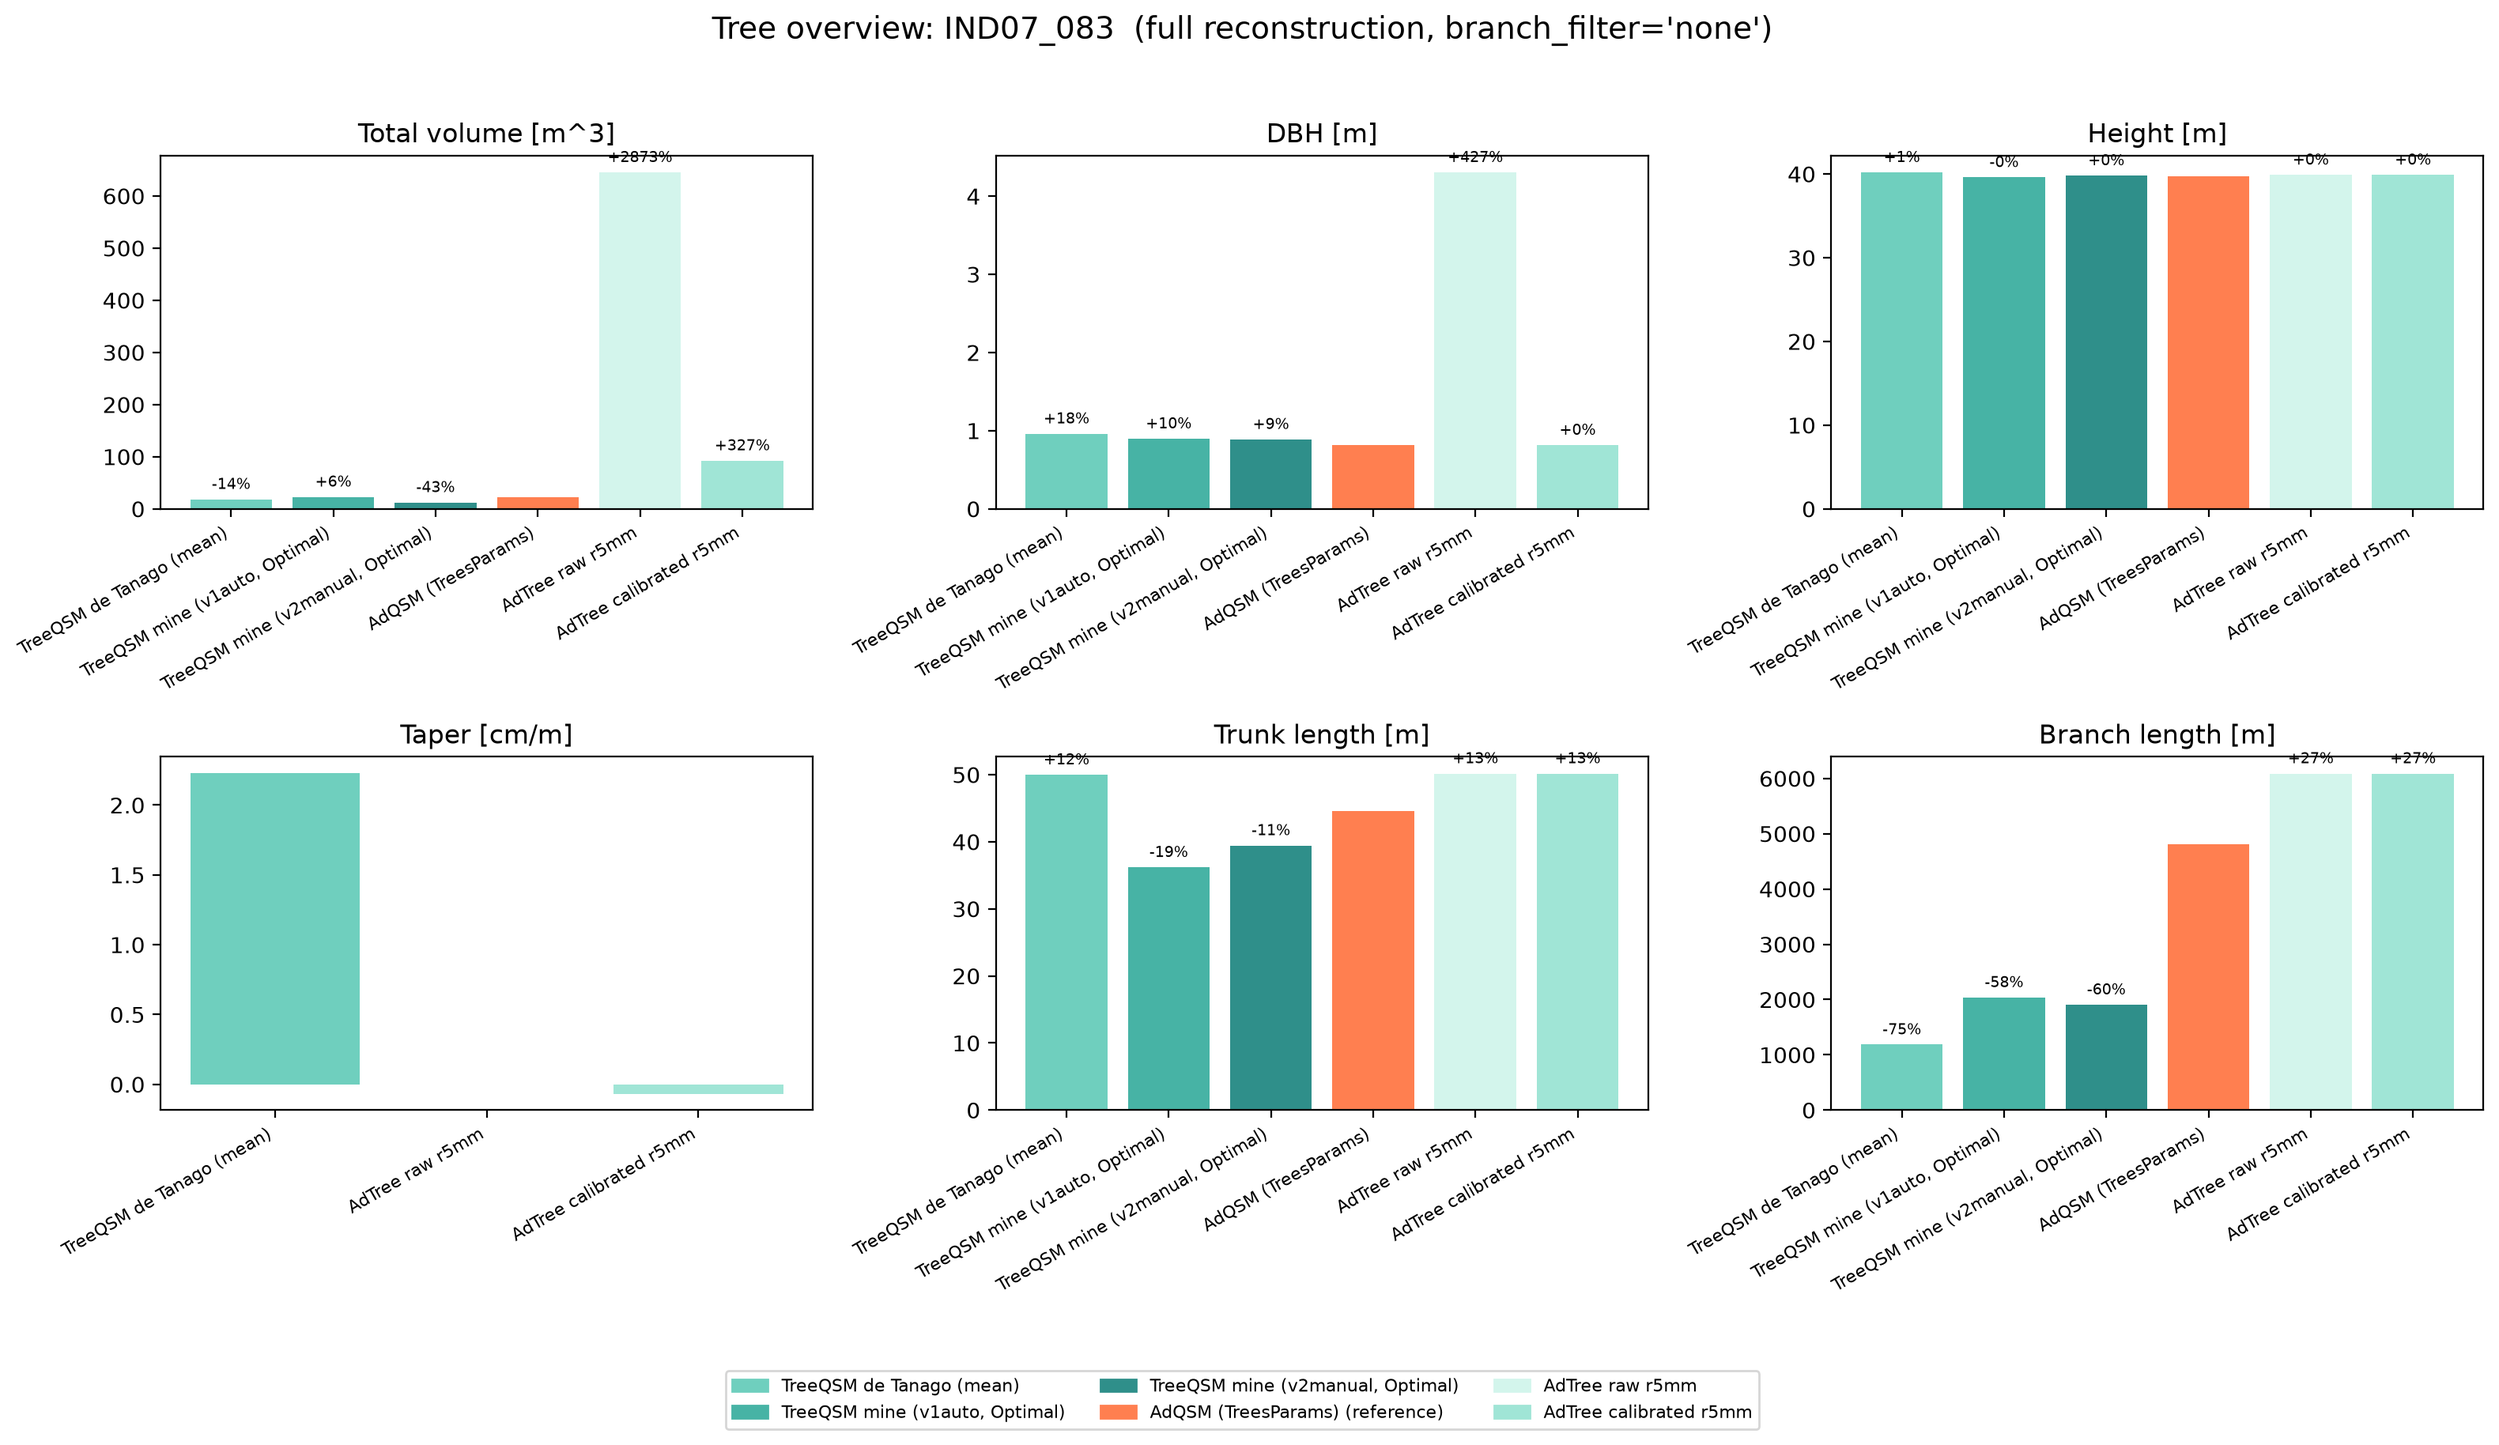
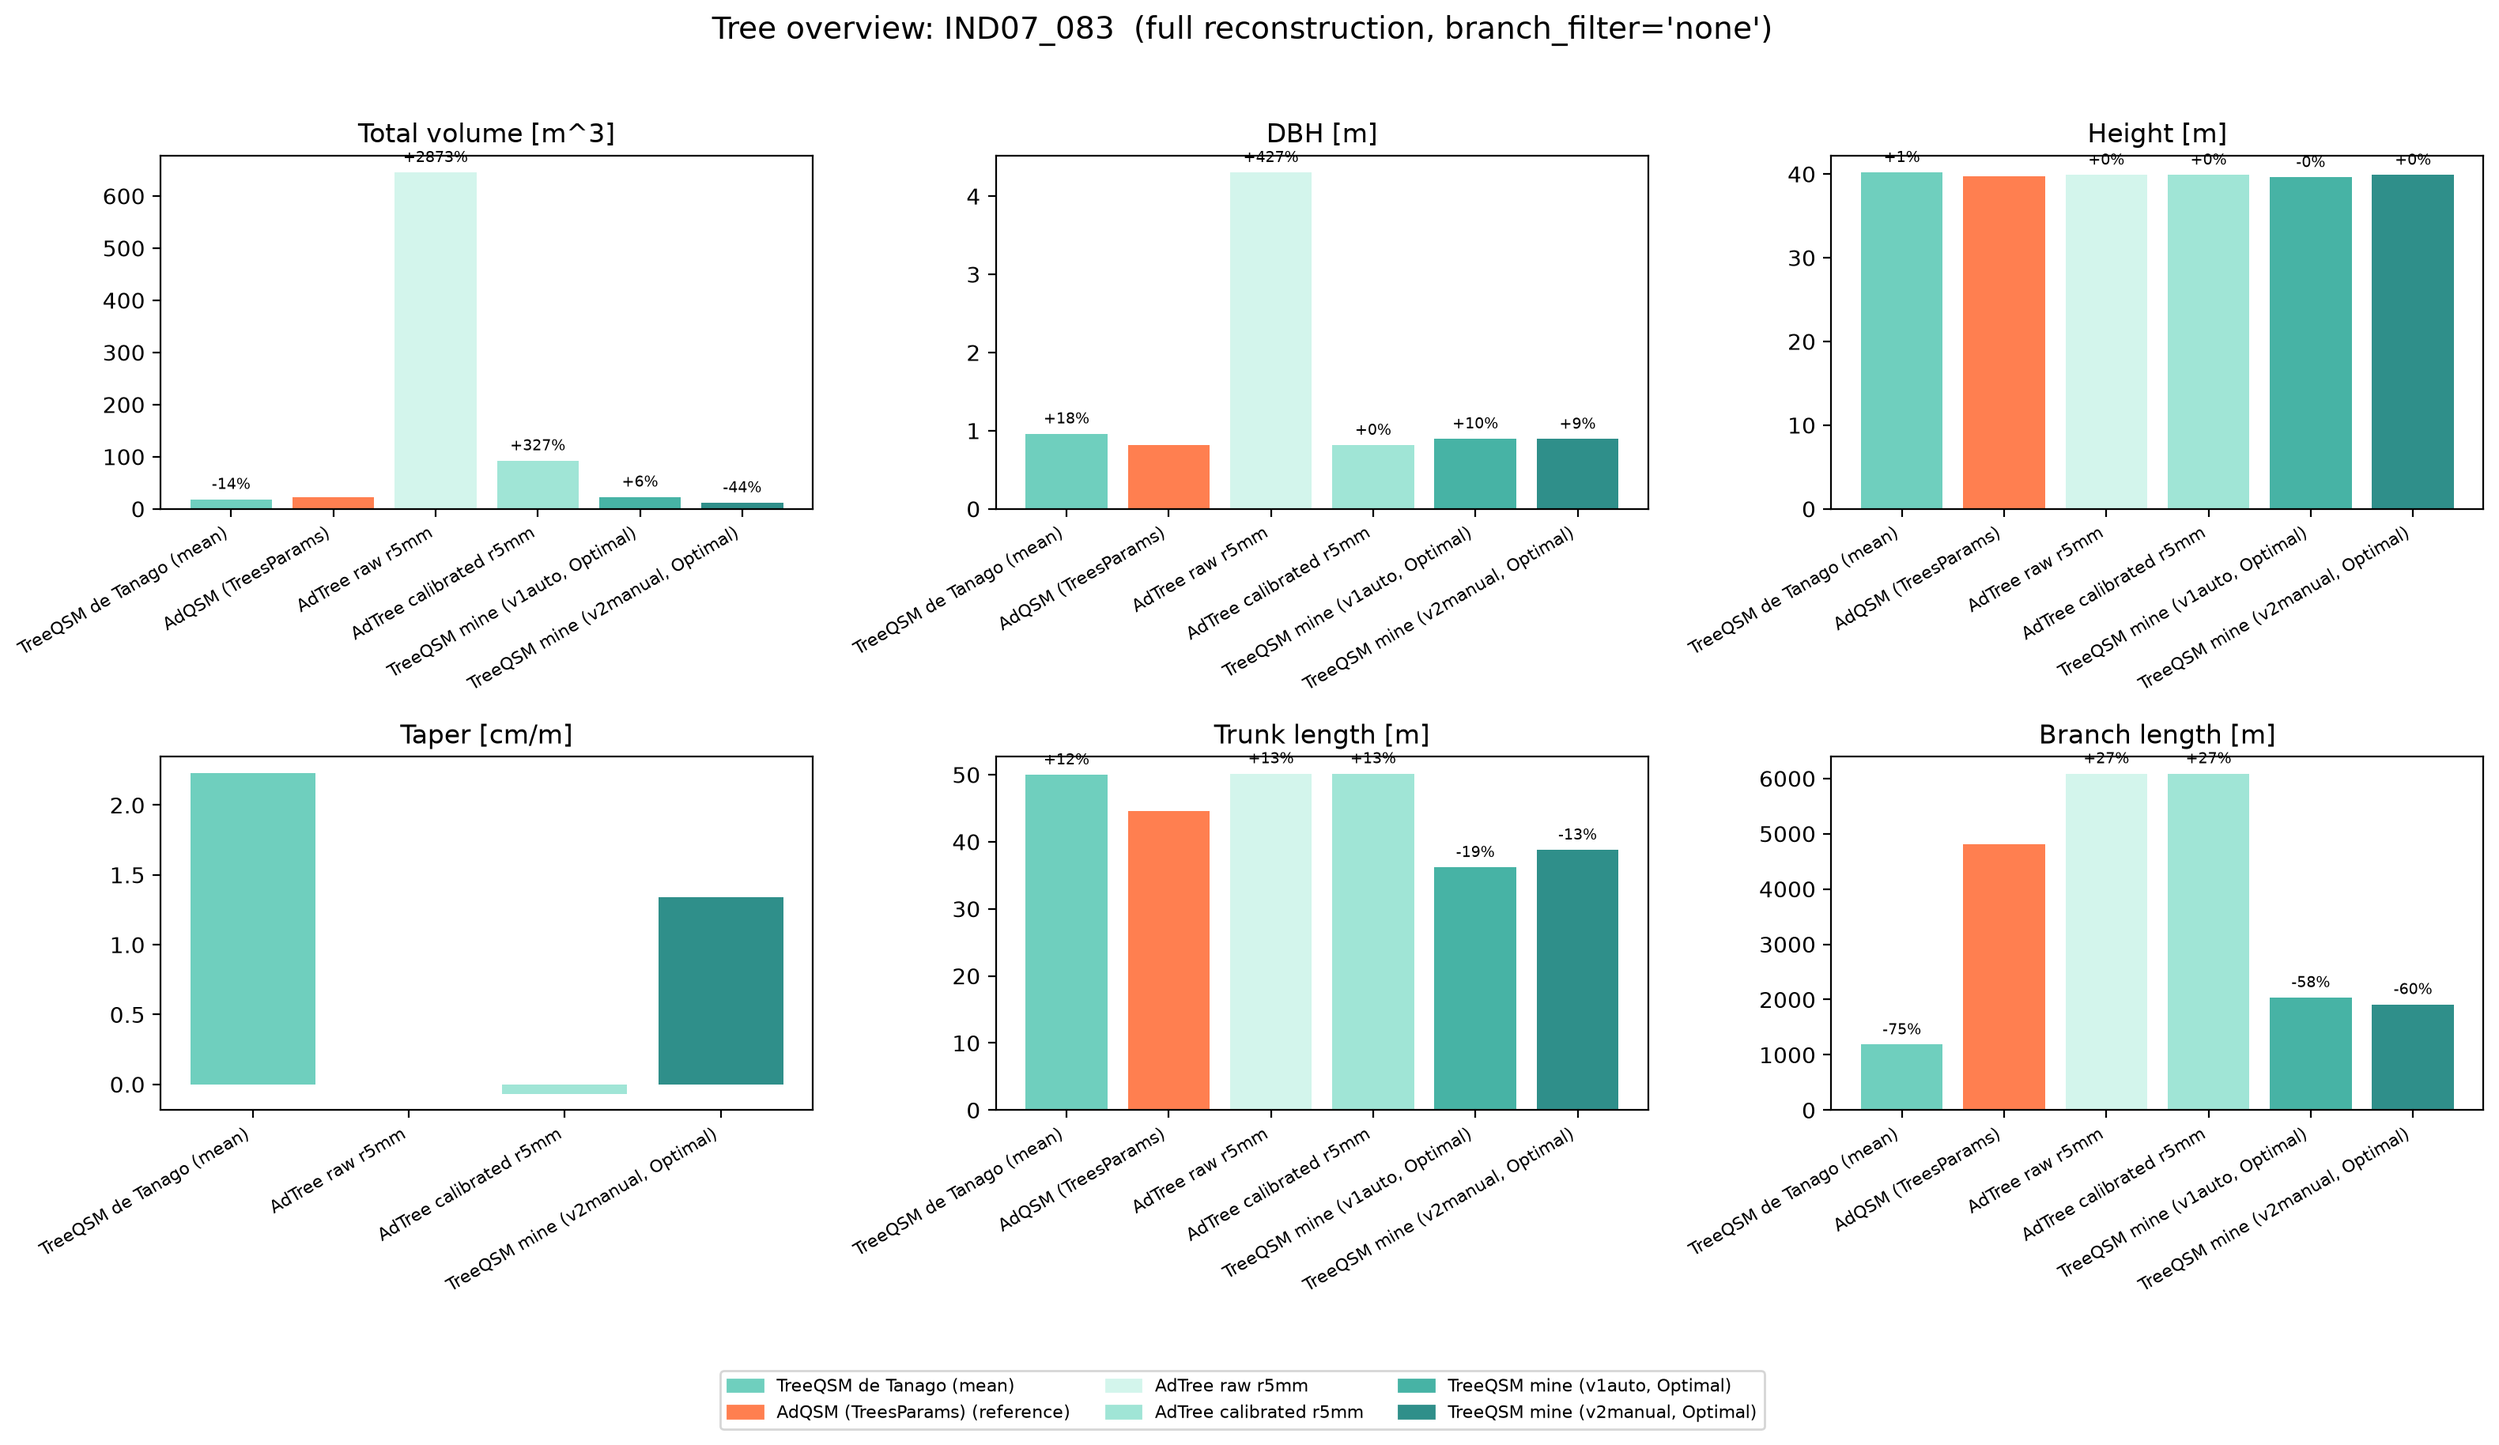
Files changed: runsken.m and import_matlab_results.py.
runsken.m — new export block in section 18, right after the height export: computes stem diameter at 1.3 m and at 10.0 m by walking the trunk cylinders (r_cyl/L_cyl/is_stem, already in scope from section 17b) accumulating length until the target height is reached — the exact same "first cylinder whose cumulative length reaches height h" algorithm treedata.DBHqsm itself uses (found in dbh_cylinder() in main_steps/tree_data.m), just evaluated at a second height too. Applies the same (d_13 - d_10) * 100 / (10.0 - 1.3) formula used everywhere else in the pipeline, writes taper_<tree>_<run>.txt, and writes an empty file (not NaN) if the trunk model doesn't reach 10 m — matching how every other optional export in this pipeline signals "unavailable."

import_matlab_results.py — taper = None replaced with taper = read_single_number(os.path.join(table_dir, "taper_%s_%s.txt" % (tree, run))); the stale "MATLAB doesn't export a diameter profile" comment (no longer true) rewritten to explain the shared-heights convention.

Verification (all done live, not simulated):

Ran the actual runsken.m in MATLAB (R2025b, found installed on this machine) via a background matlab -batch job — a real ~30-model fit for IND07_083/v2manual, monitored to completion.
taper_IND07_083_v2manual.txt was created next to dbh_*/height_*.txt, containing 1.339777.
[…]

diff --git a/scripts/matlab/runsken.m b/scripts/matlab/runsken.m
@@ -491,6 +491,62 @@ fprintf(fid, '%.6f', QSM_opt.treedata.TreeHeight);   % tree height [m]
 fprintf('Height exported to %s\n', h_file);
 fclose(fid);
 %
+% ---- export TAPER (stem narrowing) for the shared results table ----
+% taper_cm_per_m = (diameter_at_1.3m - diameter_at_10.0m) * 100 / (10.0 - 1.3)
+%
+% 1.3 m and 10.0 m are NOT arbitrary here - they are exactly TAPER_H_LOWER/
+% TAPER_H_UPPER, the same two reference heights every OTHER method in this
+% pipeline uses for its own taper_cm_per_m (see adtree_reconstruct_compare.py's
+% raw_taper/cal_taper, and TAPER_H_LOWER/TAPER_H_UPPER in
+% import_matlab_results.py) - using the same two heights here is what makes
+% this number directly comparable to theirs in volume_results.csv, instead
+% of being a taper measured over a different (and therefore not comparable)
+% span of the trunk.
+%
+% Diameter at each height is found the SAME way QSM_opt.treedata.DBHqsm
+% itself is computed (see dbh_cylinder() in main_steps/tree_data.m): walk
+% the TRUNK cylinders in order from the base upward, add up their lengths,
+% and take the diameter of the first cylinder whose running total reaches
+% the target height. That original code walks the raw trunk point cloud
+% (no longer available here, this far into the script) - but section 17b
+% above already has the exact same trunk cylinder radii/lengths in scope
+% (r_cyl, L_cyl, is_stem), in the same base-to-tip order, so we can repeat
+% the identical "which cylinder is at height h" logic using THOSE arrays
+% instead, just evaluated at two heights (1.3 m and 10.0 m) rather than one.
+trunk_len_cyl = L_cyl(is_stem);     % trunk-only cylinder lengths, base -> tip order
+trunk_rad_cyl = r_cyl(is_stem);     % trunk-only cylinder radii, same order
+cum_h = cumsum(trunk_len_cyl);      % running height from the base, one value per trunk cylinder
+
+idx_13 = find(cum_h >= 1.3,  1, 'first');   % index of the first trunk cylinder reaching 1.3 m
+idx_10 = find(cum_h >= 10.0, 1, 'first');   % index of the first trunk cylinder reaching 10.0 m
+
+taper_file = ['taper_' tree_id '_' run_tag '.txt'];
+fid = fopen(taper_file, 'w');
+if ~isempty(idx_13) && ~isempty(idx_10)
+    d_13 = 2 * trunk_rad_cyl(idx_13);   % stem diameter [m] at 1.3 m
+    d_10 = 2 * trunk_rad_cyl(idx_10);   % stem diameter [m] at 10.0 m
+    taper_cm_per_m = (d_13 - d_10) * 100.0 / (10.0 - 1.3);
+    fprintf(fid, '%.6f', taper_cm_per_m);
+    fprintf('Taper exported to %s (%.2f cm/m)\n', taper_file, taper_cm_per_m);
+    % Sanity check only (not written to file): d_13 should equal
+    % QSM_opt.treedata.DBHqsm, since it's the exact same walking algorithm
+    % applied to the exact same trunk cylinders - if these two numbers
+    % don't (nearly) match when you run this, the array order assumption
+    % above is wrong for this tree and the taper value should not be trusted.
+    fprintf('  (check: diameter at 1.3 m = %.4f m, vs. treedata.DBHqsm = %.4f m)\n', ...
+        d_13, QSM_opt.treedata.DBHqsm);
+else
+    % The trunk model doesn't reach 10.0 m (short tree, or the trunk
+    % cylinders stop earlier than that) - write an EMPTY file rather than
+    % extrapolating or guessing a number. import_matlab_results.py's
+    % read_single_number() already treats an empty/unparseable file as
+    % "value not available" (None), exactly like every other optional
+    % field in this pipeline (DBH/height/trunk-length/branch-length).
+    fprintf(fid, '');
+    fprintf('Taper NOT exported - trunk model does not reach 10.0 m (empty %s written)\n', taper_file);
+end
+fclose(fid);
+%
 % ---- export trunk/branch length for the shared results table ----
 % QSM_opt.treedata.TrunkLength/BranchLength are set in tree_data.m as
 % sum(Len(Trunk)) / sum(Len(~Trunk)) - i.e. the exact same cylinder length

diff --git a/scripts/python/import_matlab_results.py b/scripts/python/import_matlab_results.py
@@ -51,9 +51,15 @@ TREE_NAME_MAP = {
 
 # Reference heights [m] used for DBH (lower) and the taper metric (lower/
 # upper). DBH is the stem diameter at TAPER_H_LOWER (1.3 m = breast height).
-# Not used directly here (MATLAB doesn't export a diameter profile), but kept
-# for consistency with the other scripts and to label what the optional
-# height_<tree>_<run>.txt / dbh_<tree>_<run>.txt files are measured at.
+# These two constants are NOT used directly in this script's own calculation
+# (taper is computed by runsken.m in MATLAB, using these exact same two
+# heights, and just read in below) - they're kept here to document what the
+# height_<tree>_<run>.txt / dbh_<tree>_<run>.txt / taper_<tree>_<run>.txt
+# files are measured at, and so this file's numbers stay comparable with
+# every OTHER method in volume_results.csv, which all use these same two
+# reference heights for their own taper_cm_per_m (see
+# adtree_reconstruct_compare.py's raw_taper/cal_taper for the other side of
+# that same convention).
 TAPER_H_LOWER = 1.3    # lower reference height [m]
 TAPER_H_UPPER = 10.0   # upper reference height [m]
 # =====================================================================
@@ -173,14 +179,24 @@ for path in files:
     tree = TREE_NAME_MAP.get(tree_raw, tree_raw)      # map short id -> full id
     method = "TreeQSM mine (%s, %s)" % (run, IMPORT_GROUP)
 
-    # Optional DBH/height, read from "dbh_<tree>_<run>.txt" / "height_<tree>_<run>.txt"
-    # next to the volumes table (single number each, in metres). The MATLAB
-    # volumes_*.csv tables don't export a diameter profile, so taper cannot be
-    # derived here and is always left as None.
+    # Optional DBH/height/taper, read from "dbh_<tree>_<run>.txt" /
+    # "height_<tree>_<run>.txt" / "taper_<tree>_<run>.txt" next to the
+    # volumes table (single number each: metres for dbh/height, cm/m for
+    # taper). All three are exported by runsken.m section 18 using the SAME
+    # TAPER_H_LOWER/TAPER_H_UPPER reference heights defined above, which is
+    # what makes taper here comparable to taper_cm_per_m for every other
+    # method in volume_results.csv.
+    #
+    # taper has no "_filtered" counterpart (unlike trunk/branch LENGTH just
+    # below): it's the diameter narrowing of the STEM between 1.3 m and
+    # 10.0 m, and the stem at breast height is essentially always thicker
+    # than the 10 cm cut-off anyway - same reason DBH/height don't get a
+    # filtered variant either. So taper is read the same way regardless of
+    # branch_filter (computed further down).
     table_dir = os.path.dirname(path)
     dbh = read_single_number(os.path.join(table_dir, "dbh_%s_%s.txt" % (tree, run)))
     height = read_single_number(os.path.join(table_dir, "height_%s_%s.txt" % (tree, run)))
-    taper = None
+    taper = read_single_number(os.path.join(table_dir, "taper_%s_%s.txt" % (tree, run)))
 
     # branch_filter: "10cm" for any group whose NAME says it's restricted to
     # branches >= 10 cm diameter (currently only IMPORT_GROUP = "Filtered
